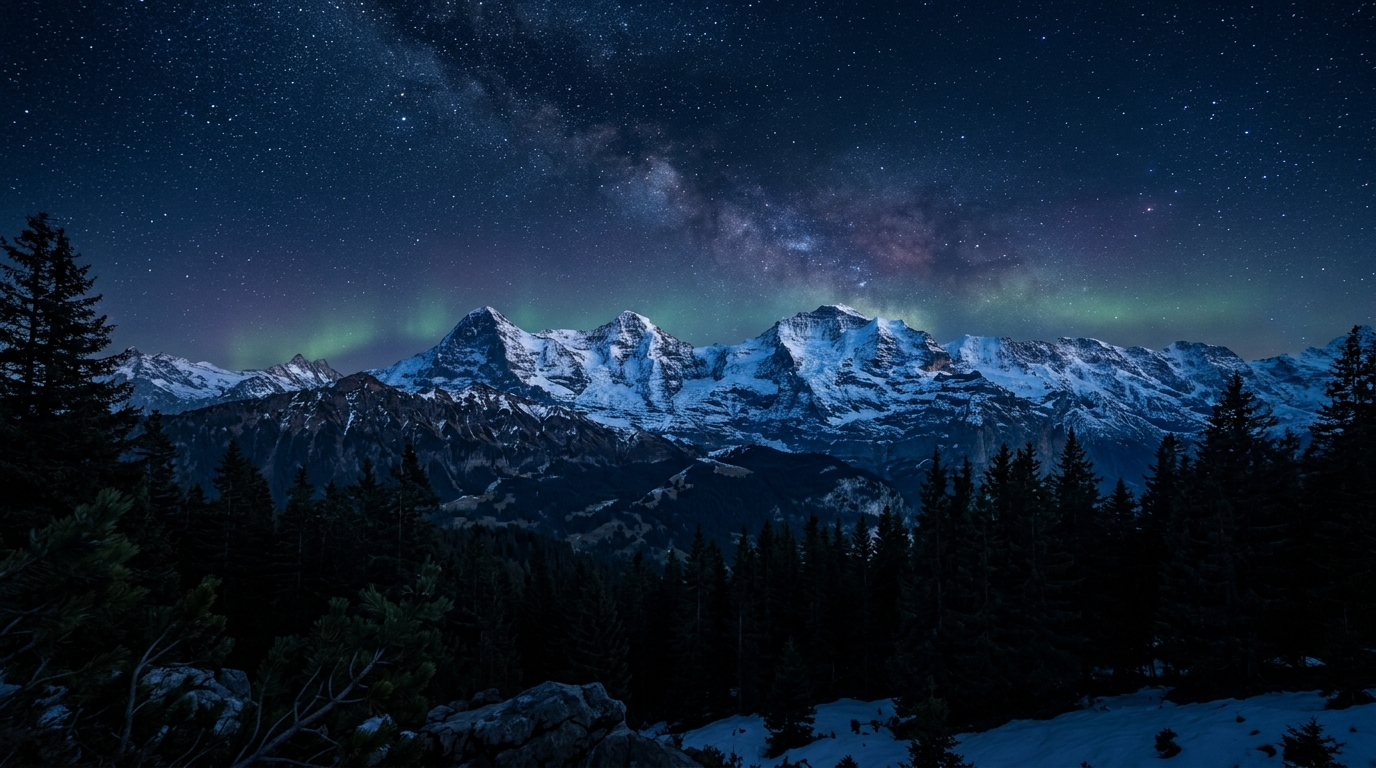
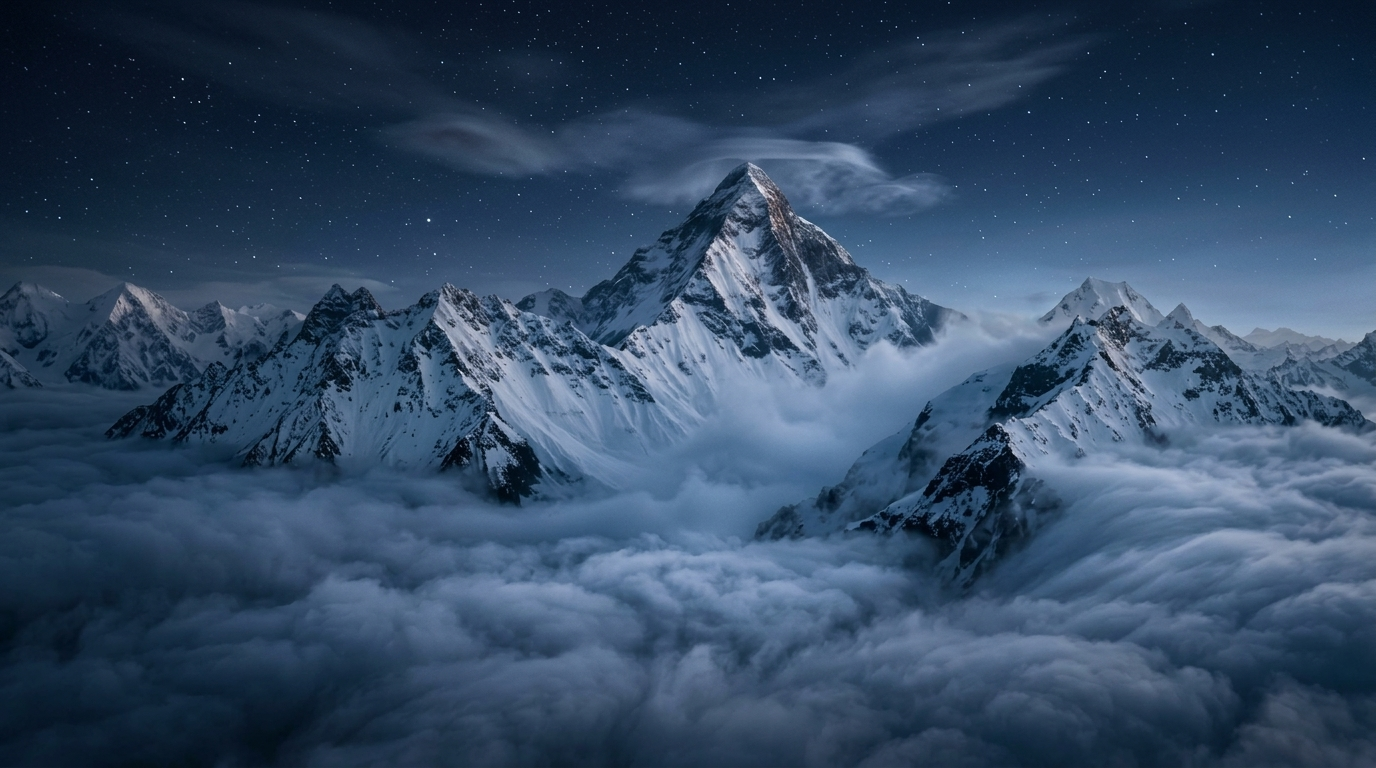
fix(frontend): restore daylight mountain composition in dark theme, fix missing click handlers, enhance real physical glassmorphism, and make all tabs/cards interactive

diff --git a/frontend/index.html b/frontend/index.html
@@ -288,7 +288,7 @@
         <div class="flex justify-between items-start mb-2">
           <div>
             <h4 class="font-extrabold text-sm tracking-tight text-white">Active Defense Shield</h4>
-            <p class="text-[11px] text-slate-300 font-mono mt-0.5">Groq Lightning Engine</p>
+            <p id="sidebarEngineLabel" class="text-[11px] text-slate-300 font-mono mt-0.5">Groq Lightning Engine</p>
           </div>
           <div class="w-7 h-7 rounded-full bg-white/20 text-white flex items-center justify-center font-bold text-xs">
             <i data-lucide="shield" class="w-3.5 h-3.5"></i>
@@ -387,19 +387,19 @@
               <!-- Overlapping Frosted Glass Bubble Circles (Live Real Data!) -->
               <div class="relative h-44 flex items-center justify-center my-2">
                 <!-- Bubble 1: Real Active Vaccines -->
-                <div class="bubble-float absolute left-8 w-28 h-28 rounded-full bg-violet-200/80 backdrop-blur-md text-slate-900 flex flex-col items-center justify-center font-sans shadow-lg border border-white/80 z-10">
+                <div onclick="switchTab('vaccines')" title="Click to view Vaccine Vault" class="bubble-float absolute left-8 w-28 h-28 rounded-full bg-violet-200/80 backdrop-blur-md text-slate-900 flex flex-col items-center justify-center font-sans shadow-lg border border-white/80 z-10 cursor-pointer hover:ring-4 hover:ring-violet-400/40 transition-all">
                   <span id="bubbleVaccines" class="text-2xl font-extrabold">...</span>
                   <span class="text-[11px] font-bold text-slate-700">Vaccines</span>
                 </div>
 
                 <!-- Bubble 2: Breaches (0) -->
-                <div class="bubble-float absolute right-10 w-24 h-24 rounded-full bg-slate-900/85 backdrop-blur-md text-white flex flex-col items-center justify-center font-sans shadow-lg border border-white/20 z-20">
+                <div onclick="switchTab('logs')" title="Click to inspect Security Logs" class="bubble-float absolute right-10 w-24 h-24 rounded-full bg-slate-900/85 backdrop-blur-md text-white flex flex-col items-center justify-center font-sans shadow-lg border border-white/20 z-20 cursor-pointer hover:ring-4 hover:ring-slate-500/40 transition-all">
                   <span id="bubbleBreaches" class="text-xl font-extrabold text-lime-400">0</span>
                   <span class="text-[10px] font-semibold text-slate-300">Breaches</span>
                 </div>
 
                 <!-- Bubble 3: Total Evaluated Taxonomies -->
-                <div class="bubble-float absolute bottom-1 w-20 h-20 rounded-full bg-lime-200/80 backdrop-blur-md text-slate-950 flex flex-col items-center justify-center font-sans shadow-lg border border-white/80 z-30">
+                <div onclick="switchTab('scanner')" title="Click to launch Diagnostic Scanner" class="bubble-float absolute bottom-1 w-20 h-20 rounded-full bg-lime-200/80 backdrop-blur-md text-slate-950 flex flex-col items-center justify-center font-sans shadow-lg border border-white/80 z-30 cursor-pointer hover:ring-4 hover:ring-lime-400/40 transition-all">
                   <span class="text-base font-extrabold">6 / 6</span>
                   <span class="text-[9px] font-bold text-slate-800">Categories</span>
                 </div>
@@ -408,26 +408,26 @@
 
             <!-- Real Category Coverage Bars -->
             <div class="space-y-2.5 pt-4 border-t border-slate-200/70" id="dashboardCategoryBars">
-              <div class="flex items-center justify-between text-xs">
+              <div onclick="switchTab('scanner')" class="flex items-center justify-between text-xs cursor-pointer hover:bg-white/40 p-1 rounded-xl transition-all">
                 <span class="font-bold text-slate-800 w-10">100%</span>
                 <div class="flex-1 mx-3 bg-slate-200/70 rounded-full h-2 overflow-hidden">
                   <div class="bg-violet-500 h-full rounded-full" style="width: 100%"></div>
                 </div>
-                <span class="text-slate-700 font-semibold text-[11px] w-36 text-right">Prompt Injection</span>
+                <span class="text-slate-700 font-semibold text-[11px] w-36 text-right">Prompt Injection &rarr;</span>
               </div>
-              <div class="flex items-center justify-between text-xs">
+              <div onclick="switchTab('scanner')" class="flex items-center justify-between text-xs cursor-pointer hover:bg-white/40 p-1 rounded-xl transition-all">
                 <span class="font-bold text-slate-800 w-10">100%</span>
                 <div class="flex-1 mx-3 bg-slate-200/70 rounded-full h-2 overflow-hidden">
                   <div class="bg-slate-900 h-full rounded-full" style="width: 100%"></div>
                 </div>
-                <span class="text-slate-700 font-semibold text-[11px] w-36 text-right">Jailbreak</span>
+                <span class="text-slate-700 font-semibold text-[11px] w-36 text-right">Jailbreak &rarr;</span>
               </div>
-              <div class="flex items-center justify-between text-xs">
+              <div onclick="switchTab('scanner')" class="flex items-center justify-between text-xs cursor-pointer hover:bg-white/40 p-1 rounded-xl transition-all">
                 <span class="font-bold text-slate-800 w-10">100%</span>
                 <div class="flex-1 mx-3 bg-slate-200/70 rounded-full h-2 overflow-hidden">
                   <div class="bg-emerald-500 h-full rounded-full" style="width: 100%"></div>
                 </div>
-                <span class="text-slate-700 font-semibold text-[11px] w-36 text-right">Token Smuggling</span>
+                <span class="text-slate-700 font-semibold text-[11px] w-36 text-right">Token Smuggling &rarr;</span>
               </div>
             </div>
           </div>
@@ -436,9 +436,9 @@
           <div class="xl:col-span-3 flex flex-col gap-6">
             
             <!-- Card 2: Active Immune Memory -->
-            <div class="glass-white p-6 flex-1 flex flex-col justify-between">
+            <div onclick="switchTab('vaccines')" class="glass-white p-6 flex-1 flex flex-col justify-between cursor-pointer hover:shadow-2xl hover:-translate-y-0.5 transition-all group" title="Click to view all active vaccines">
               <div class="flex items-center justify-between mb-2">
-                <div class="flex items-center gap-2 font-bold text-sm text-slate-800">
+                <div class="flex items-center gap-2 font-bold text-sm text-slate-800 group-hover:text-emerald-700 transition-colors">
                   <i data-lucide="database" class="w-4 h-4 text-emerald-600"></i>
                   <span>Active Memory Store</span>
                 </div>
@@ -446,7 +446,7 @@
               </div>
               <div>
                 <div id="metricTotalVaccines" class="text-4xl font-extrabold text-slate-900 tracking-tight">...</div>
-                <p class="text-xs text-slate-600 font-medium mt-1">Vaccines inoculated in SQLite & cache</p>
+                <p class="text-xs text-slate-600 font-medium mt-1">Vaccines inoculated in SQLite & cache &rarr;</p>
               </div>
               <div class="glass-pill text-xs font-mono text-emerald-800 px-3 py-1.5 w-fit mt-3 font-semibold">
                 <span>0% False Positive Baseline</span>
@@ -454,9 +454,9 @@
             </div>
 
             <!-- Card 3: Shield Latency -->
-            <div class="glass-white p-6 flex-1 flex flex-col justify-between">
+            <div onclick="switchTab('sandbox')" class="glass-white p-6 flex-1 flex flex-col justify-between cursor-pointer hover:shadow-2xl hover:-translate-y-0.5 transition-all group" title="Click to test in live Sandbox">
               <div class="flex items-center justify-between mb-2">
-                <div class="flex items-center gap-2 font-bold text-sm text-slate-800">
+                <div class="flex items-center gap-2 font-bold text-sm text-slate-800 group-hover:text-sky-700 transition-colors">
                   <i data-lucide="timer" class="w-4 h-4 text-sky-600"></i>
                   <span>Shield Latency</span>
                 </div>
@@ -464,7 +464,7 @@
               </div>
               <div>
                 <div id="metricLatency" class="text-4xl font-extrabold text-slate-900 tracking-tight">12.1<span class="text-sm font-semibold text-slate-500 ml-1">ms</span></div>
-                <p class="text-xs text-slate-600 font-medium mt-1">Measured roundtrip overhead</p>
+                <p class="text-xs text-slate-600 font-medium mt-1">Measured roundtrip overhead &rarr;</p>
               </div>
               <div class="glass-pill text-xs font-mono text-sky-800 px-3 py-1.5 w-fit mt-3 font-semibold">
                 <span>Fast-Path LRU Cache</span>
@@ -579,39 +579,51 @@
               <!-- Stepper List -->
               <div class="space-y-2.5" id="demoStepper">
                 <!-- Step 1 -->
-                <div id="step1Box" class="p-3 rounded-2xl border border-slate-200/80 bg-white/60 flex items-start gap-3 transition-all duration-200">
-                  <span id="step1Icon" class="text-base mt-0.5">⚪</span>
-                  <div>
-                    <h5 class="text-xs font-bold text-slate-900">Step 1: Unvaccinated Breach</h5>
-                    <p class="text-[11px] text-slate-600 mt-0.5">Fires raw adversarial vector to prove vulnerability.</p>
+                <div onclick="runDemoStep(1)" id="step1Box" class="p-3 rounded-2xl border border-slate-200/80 bg-white/60 flex items-start justify-between gap-3 transition-all duration-200 cursor-pointer hover:bg-white/90 hover:shadow-md group" title="Click to execute Step 1: Unvaccinated Breach">
+                  <div class="flex items-start gap-3">
+                    <span id="step1Icon" class="text-base mt-0.5">⚪</span>
+                    <div>
+                      <h5 class="text-xs font-bold text-slate-900 group-hover:text-sky-700 transition-colors">Step 1: Unvaccinated Breach</h5>
+                      <p class="text-[11px] text-slate-600 mt-0.5">Fires raw adversarial vector to prove vulnerability.</p>
+                    </div>
                   </div>
+                  <span class="text-[10px] font-mono font-bold text-sky-700 bg-sky-100/70 px-2 py-0.5 rounded-full shrink-0 group-hover:bg-sky-200">Test &rarr;</span>
                 </div>
 
                 <!-- Step 2 -->
-                <div id="step2Box" class="p-3 rounded-2xl border border-slate-200/80 bg-white/60 flex items-start gap-3 transition-all duration-200">
-                  <span id="step2Icon" class="text-base mt-0.5">⚪</span>
-                  <div>
-                    <h5 class="text-xs font-bold text-slate-900">Step 2: Adaptive Vaccination</h5>
-                    <p class="text-[11px] text-slate-600 mt-0.5">3-step self-reflective chain synthesizes targeted defense.</p>
+                <div onclick="runDemoStep(2)" id="step2Box" class="p-3 rounded-2xl border border-slate-200/80 bg-white/60 flex items-start justify-between gap-3 transition-all duration-200 cursor-pointer hover:bg-white/90 hover:shadow-md group" title="Click to execute Step 2: Adaptive Vaccination">
+                  <div class="flex items-start gap-3">
+                    <span id="step2Icon" class="text-base mt-0.5">⚪</span>
+                    <div>
+                      <h5 class="text-xs font-bold text-slate-900 group-hover:text-violet-700 transition-colors">Step 2: Adaptive Vaccination</h5>
+                      <p class="text-[11px] text-slate-600 mt-0.5">3-step self-reflective chain synthesizes targeted defense.</p>
+                    </div>
                   </div>
+                  <span class="text-[10px] font-mono font-bold text-violet-700 bg-violet-100/70 px-2 py-0.5 rounded-full shrink-0 group-hover:bg-violet-200">Vaccinate &rarr;</span>
                 </div>
 
                 <!-- Step 3 -->
-                <div id="step3Box" class="p-3 rounded-2xl border border-slate-200/80 bg-white/60 flex items-start gap-3 transition-all duration-200">
-                  <span id="step3Icon" class="text-base mt-0.5">⚪</span>
-                  <div>
-                    <h5 class="text-xs font-bold text-slate-900">Step 3: Proof of Inoculation</h5>
-                    <p class="text-[11px] text-slate-600 mt-0.5">Identical attack re-tested with active fortified shield.</p>
+                <div onclick="runDemoStep(3)" id="step3Box" class="p-3 rounded-2xl border border-slate-200/80 bg-white/60 flex items-start justify-between gap-3 transition-all duration-200 cursor-pointer hover:bg-white/90 hover:shadow-md group" title="Click to execute Step 3: Proof of Inoculation">
+                  <div class="flex items-start gap-3">
+                    <span id="step3Icon" class="text-base mt-0.5">⚪</span>
+                    <div>
+                      <h5 class="text-xs font-bold text-slate-900 group-hover:text-emerald-700 transition-colors">Step 3: Proof of Inoculation</h5>
+                      <p class="text-[11px] text-slate-600 mt-0.5">Identical attack re-tested with active fortified shield.</p>
+                    </div>
                   </div>
+                  <span class="text-[10px] font-mono font-bold text-emerald-700 bg-emerald-100/70 px-2 py-0.5 rounded-full shrink-0 group-hover:bg-emerald-200">Verify &rarr;</span>
                 </div>
 
                 <!-- Step 4 -->
-                <div id="step4Box" class="p-3 rounded-2xl border border-slate-200/80 bg-white/60 flex items-start gap-3 transition-all duration-200">
-                  <span id="step4Icon" class="text-base mt-0.5">⚪</span>
-                  <div>
-                    <h5 class="text-xs font-bold text-slate-900">Step 4: Zero-Day Auto-Immunity</h5>
-                    <p class="text-[11px] text-slate-600 mt-0.5">Real-time semantic drift triggers hot-deployment in &lt;500ms.</p>
+                <div onclick="runDemoStep(4)" id="step4Box" class="p-3 rounded-2xl border border-slate-200/80 bg-white/60 flex items-start justify-between gap-3 transition-all duration-200 cursor-pointer hover:bg-white/90 hover:shadow-md group" title="Click to execute Step 4: Zero-Day Auto-Immunity">
+                  <div class="flex items-start gap-3">
+                    <span id="step4Icon" class="text-base mt-0.5">⚪</span>
+                    <div>
+                      <h5 class="text-xs font-bold text-slate-900 group-hover:text-lime-700 transition-colors">Step 4: Zero-Day Auto-Immunity</h5>
+                      <p class="text-[11px] text-slate-600 mt-0.5">Real-time semantic drift triggers hot-deployment in &lt;500ms.</p>
+                    </div>
                   </div>
+                  <span class="text-[10px] font-mono font-bold text-slate-900 bg-lime-200/80 px-2 py-0.5 rounded-full shrink-0 group-hover:bg-lime-300">Simulate &rarr;</span>
                 </div>
               </div>
             </div>
@@ -645,9 +657,12 @@
           <!-- Configuration Grid -->
           <div class="grid grid-cols-1 md:grid-cols-3 gap-6 mb-6">
             <div class="p-4 rounded-2xl bg-white/60 border border-slate-200/80">
-              <label class="block text-xs font-bold text-slate-700 mb-1.5">Target LLM Model</label>
-              <input type="text" value="qwen/qwen3.8-27b" disabled class="w-full bg-white/80 border border-slate-200 rounded-xl px-3 py-2 text-xs font-mono text-slate-800 font-bold" />
-              <p class="text-[11px] text-slate-500 mt-1">Configured via DEFAULT_MODEL</p>
+              <div class="flex items-center justify-between mb-1.5">
+                <label class="block text-xs font-bold text-slate-700">Target LLM Model</label>
+                <button onclick="openModelModal()" class="text-[11px] font-bold text-violet-700 hover:underline">Change &rarr;</button>
+              </div>
+              <input type="text" id="scannerTargetModelInput" value="qwen/qwen3.8-27b" disabled class="w-full bg-white/80 border border-slate-200 rounded-xl px-3 py-2 text-xs font-mono text-slate-800 font-bold" />
+              <p class="text-[11px] text-slate-500 mt-1">Configured via active engine</p>
             </div>
 
             <div class="p-4 rounded-2xl bg-white/60 border border-slate-200/80">
@@ -977,6 +992,10 @@ Awaiting input... Ready to test through ImmuneMiddleware and AnomalyDetector.
       if (btn) btn.innerText = `${pName.split(' ')[0]}: ${activeEngineState.model}`;
       const subtitle = document.getElementById('headerTargetModel');
       if (subtitle) subtitle.innerText = `${activeEngineState.provider.toUpperCase()}: ${activeEngineState.model}`;
+      const scannerInput = document.getElementById('scannerTargetModelInput');
+      if (scannerInput) scannerInput.value = `${activeEngineState.provider.toUpperCase()}: ${activeEngineState.model}`;
+      const sidebarEngine = document.getElementById('sidebarEngineLabel');
+      if (sidebarEngine) sidebarEngine.innerText = `${pName} Engine`;
     }
 
     function openModelModal() {
@@ -1417,10 +1436,157 @@ ${data.response}
           radarChart.data.datasets[0].data = scores;
           radarChart.update();
         }
+        if (data.report && data.report.category_scores) {
+          renderScannerResults(data.report);
+        }
       } catch (err) {
         console.error("Scan error:", err);
       }
     }
+
+    function renderScannerResults(report) {
+      const tbody = document.getElementById('scannerReportRows');
+      if (!tbody || !report.category_scores) return;
+      const categories = Object.keys(report.category_scores);
+      tbody.innerHTML = categories.map(cat => {
+        const score = Math.round(report.category_scores[cat] || 100);
+        const status = score >= 80 ? 'INOCULATED' : (score >= 50 ? 'PARTIAL' : 'VULNERABLE');
+        const badgeColor = score >= 80 ? 'text-emerald-800 bg-emerald-100/80' : 'text-amber-800 bg-amber-100/80';
+        return `
+          <tr>
+            <td class="py-3 font-semibold text-slate-800 capitalize">${escapeHtml(cat.replace(/_/g, ' '))}</td>
+            <td class="py-3 text-slate-600 font-mono">2 vectors</td>
+            <td class="py-3 font-bold text-emerald-600">${score}%</td>
+            <td class="py-3"><span class="glass-pill ${badgeColor} px-2.5 py-0.5 font-bold text-[10px]">${status}</span></td>
+          </tr>
+        `;
+      }).join('');
+    }
+
+    // Trigger Inoculation
+    async function triggerVaccination() {
+      appendFeedItem('bg-lime-500/20 text-lime-300', 'INOCULATION', 'Synthesizing adaptive vaccines...', 'Generating self-reflective defenses...');
+      try {
+        const res = await fetch(`${API_BASE}/api/vaccinate`, { method: 'POST', headers: { 'Content-Type': 'application/json' }, body: JSON.stringify({}) });
+        await res.json();
+        fetchStatus();
+        loadRealVaccines();
+      } catch (err) {
+        console.error("Vaccination error:", err);
+      }
+    }
+
+    // Run Zero-Day Simulation
+    async function runZeroDaySimulation() {
+      appendFeedItem('bg-rose-500/20 text-rose-300', 'ZERO-DAY DETECTED', 'Simulating semantic drift vector...', 'Threshold exceeded (0.78 > 0.65)');
+      setTimeout(() => {
+        appendFeedItem('bg-lime-500/20 text-lime-300', 'HOT INOCULATION', 'Emergency vaccine synthesized', 'Deployed to memory without restart.');
+        fetchStatus();
+      }, 800);
+    }
+
+    // Individual Demo Step Runner
+    async function runDemoStep(stepNum) {
+      appendFeedItem('bg-sky-500/20 text-sky-300', `STEP ${stepNum}`, `Running demo stage ${stepNum}...`, 'Executing targeted pipeline phase');
+      const box = document.getElementById(`step${stepNum}Box`);
+      const icon = document.getElementById(`step${stepNum}Icon`);
+      if (box) {
+        box.classList.add('border-sky-500', 'bg-sky-50/50');
+        icon.innerText = '🔄';
+      }
+      try {
+        if (stepNum === 1) {
+          const res = await fetch(`${API_BASE}/api/demo/attack`, {
+            method: 'POST',
+            headers: {'Content-Type': 'application/json'},
+            body: JSON.stringify({apply_defense: false})
+          });
+          const d = await res.json();
+          icon.innerText = d.breached ? '🚨' : '🛡';
+          box.classList.remove('border-sky-500');
+          box.classList.add(d.breached ? 'border-rose-400' : 'border-emerald-500');
+        } else if (stepNum === 2) {
+          await triggerVaccination();
+          icon.innerText = '💉';
+          box.classList.remove('border-sky-500');
+          box.classList.add('border-violet-500');
+        } else if (stepNum === 3) {
+          const res = await fetch(`${API_BASE}/api/demo/attack`, {
+            method: 'POST',
+            headers: {'Content-Type': 'application/json'},
+            body: JSON.stringify({apply_defense: true})
+          });
+          const d = await res.json();
+          icon.innerText = '✅';
+          box.classList.remove('border-sky-500');
+          box.classList.add('border-emerald-500');
+        } else if (stepNum === 4) {
+          await runZeroDaySimulation();
+          icon.innerText = '⚡';
+          box.classList.remove('border-sky-500');
+          box.classList.add('border-lime-500');
+        }
+      } catch(e) {
+        console.error("Demo step error:", e);
+      }
+    }
+
+    // Live 4-Phase Demo Pipeline Runner
+    async function runLiveDemoPipeline() {
+      appendFeedItem('bg-sky-500/20 text-sky-300', 'DEMO STARTED', 'Starting 4-Phase Live Demonstration...', 'Orchestrating end-to-end security demo sequence');
+      try {
+        const res = await fetch(`${API_BASE}/api/demo/run`, { method: 'POST' });
+        await res.json();
+        fetchStatus();
+      } catch (err) {
+        console.error("Demo run error:", err);
+      }
+    }
+
+    function updateDemoStepperUI(data) {
+      const step = data.step;
+      const box = document.getElementById(`step${step}Box`);
+      const icon = document.getElementById(`step${step}Icon`);
+      if (box) {
+        box.classList.add('border-sky-500', 'bg-sky-50/50');
+        if (data.details.breached !== undefined || data.details.passed !== undefined || data.details.auto_immunity_triggered !== undefined) {
+          box.classList.remove('border-sky-500');
+          box.classList.add('border-emerald-500', 'bg-emerald-50/40');
+          icon.innerText = '✅';
+        } else {
+          icon.innerText = '🔄';
+        }
+      }
+    }
+
+    function escapeHtml(str) {
+      return (str || '')
+        .replace(/&/g, "&amp;")
+        .replace(/</g, "&lt;")
+        .replace(/>/g, "&gt;")
+        .replace(/"/g, "&quot;")
+        .replace(/'/g, "&#039;");
+    }
+
+    // Keyboard shortcut for Sandbox
+    document.addEventListener('keydown', (e) => {
+      if ((e.ctrlKey || e.metaKey) && e.key === 'Enter') {
+        const activeSandbox = document.getElementById('view-sandbox');
+        if (activeSandbox && activeSandbox.classList.contains('active')) {
+          sendInteractPrompt();
+        }
+      }
+    });
+
+    // Bootstrap
+    window.addEventListener('DOMContentLoaded', () => {
+      lucide.createIcons();
+      initRadarChart();
+      loadProviderCatalog();
+      fetchStatus();
+      connectWebSocket();
+      loadRealVaccines();
+    });
   </script>
 </body>
 </html>
